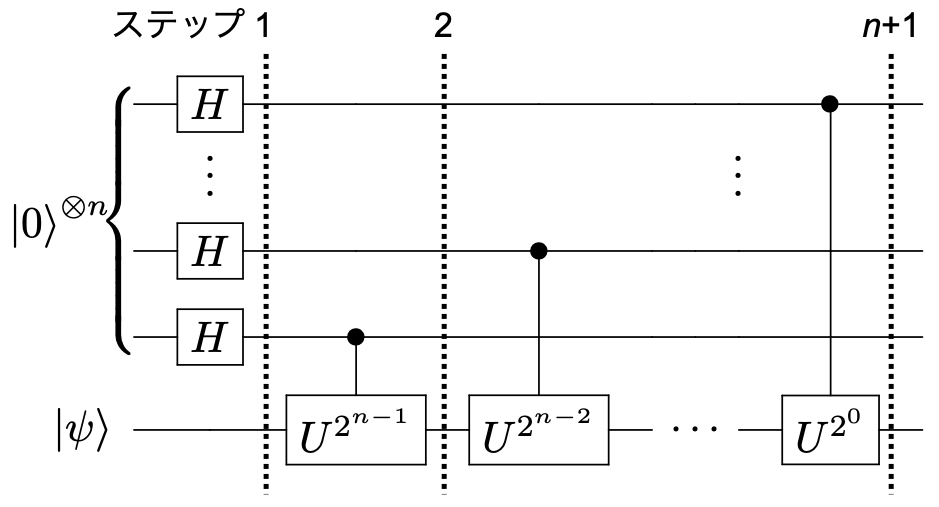
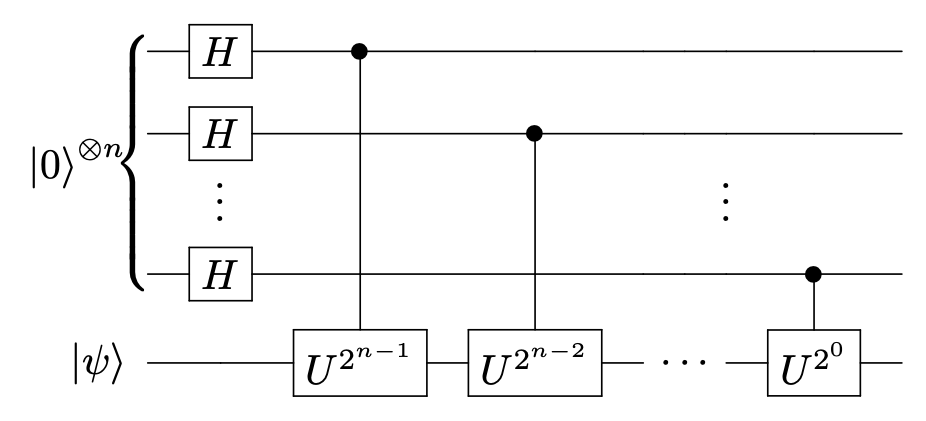
updated shor, spectrum_esimation

Changed region(s): [[0.0, 0.0, 0.9978, 0.9572]]

diff --git a/source/ja/shor.md b/source/ja/shor.md
@@ -149,8 +149,6 @@ import matplotlib.pyplot as plt
 import numpy as np
 
 from qiskit import QuantumRegister, ClassicalRegister, QuantumCircuit, transpile
-from qiskit.visualization import plot_histogram
-from qiskit_aer import AerSimulator
 from qiskit_ibm_runtime import QiskitRuntimeService
 from qiskit_ibm_runtime.accounts import AccountNotFoundError
 
@@ -319,32 +317,19 @@ pycharm:
 
     '
 ---
-simulator = AerSimulator()
-shots = 2048
-qc_tr = transpile(qc, backend=simulator)
-results = simulator.run(qc_tr, shots=shots).result()
-answer = results.get_counts()
+from qiskit.primitives import Sampler
 
-def show_distribution(answer):
-    n = len(answer)
-    x = [int(key, 2) for key in list(answer.keys())]
-    y = list(answer.values())
+# Instantiate a new Sampler object
+sampler = Sampler()
 
-    fig, ax = plt.subplots()
-    rect = ax.bar(x,y)
+# Now run the job and examine the results
+sampler_job = sampler.run(qc)
+result = sampler_job.result()
 
-    def autolabel(rects):
-        for rect in rects:
-            height = rect.get_height()
-            ax.annotate(f'{height/sum(y):.3f}',
-                        xy=(rect.get_x() + rect.get_width() / 2, height),
-                        xytext=(0, 0),
-                        textcoords="offset points", ha='center', va='bottom')
-    autolabel(rect)
-    plt.ylabel('Probabilities')
-    plt.show()
+from qiskit.visualization import plot_distribution
+plt.style.use('dark_background')
+plot_distribution(result.quasi_dists[0])
 
-show_distribution(answer)
 ```
 
 +++ {"pycharm": {"name": "#%% md\n"}}
@@ -384,7 +369,7 @@ try:
 except AccountNotFoundError:
     service = QiskitRuntimeService(channel='ibm_quantum', token='__paste_your_token_here__', instance=instance)
 
-backend = service.least_busy(min_num_qubits=4, filters=operational_backend())
+backend = service.least_busy(min_num_qubits=n_meas+1, simulator=False, operational=True)
 print(f"least busy backend: {backend.name}")
 ```
 
@@ -401,7 +386,12 @@ tags: [raises-exception, remove-output]
 ---
 # 最も空いているバックエンドで回路を実行します。キュー内のジョブの実行をモニターします。
 qc_tr = transpile(qc, backend=backend, optimization_level=3)
-job = backend.run(qc_tr, shots=shots)
+
+from qiskit_ibm_runtime import Sampler, Session
+# create a Runtime session for efficient execution (optional)
+session = Session(service=service, backend=backend)
+sampler = Sampler(session=session)
+job = sampler.run(qc)
 ```
 
 ```{code-cell} ipython3
@@ -413,9 +403,8 @@ pycharm:
 tags: [raises-exception, remove-output]
 ---
 # 計算結果
-results = job.result()
-answer = results.get_counts()
-show_distribution(answer)
+result = job.result()
+plot_distribution(result.quasi_dists[0])
 ```
 
 (shor_algo)=
@@ -957,11 +946,19 @@ pycharm:
 slideshow:
   slide_type: ''
 ---
-qc = transpile(qc, backend=simulator)
-results = simulator.run(qc, shots=2048).result()
-answer = results.get_counts()
+shots = 10000
 
-show_distribution(answer)
+# Instantiate a new Sampler object
+from qiskit.primitives import Sampler
+sampler = Sampler()
+
+# Now run the job and examine the results
+sampler_job = sampler.run(qc)
+answer = sampler_job.result().quasi_dists[0]
+
+from qiskit.visualization import plot_distribution
+plt.style.use('dark_background')
+plot_distribution(answer)
 ```
 
 +++ {"pycharm": {"name": "#%% md\n"}, "editable": true, "slideshow": {"slide_type": ""}}
@@ -984,11 +981,10 @@ slideshow:
 ---
 rows, measured_phases = [], []
 for output in answer:
-    decimal = int(output, 2)  # 10進数に変換
-    phase = decimal / (2 ** n_meas)
+    phase = output / (2 ** n_meas)
     measured_phases.append(phase)
     # これらの値をテーブルの行に追加：
-    rows.append(f"{decimal:3d}      {decimal:3d}/{2 ** n_meas} = {phase:.3f}")
+    rows.append(f"{output:3d}      {output:3d}/{2 ** n_meas} = {phase:.3f}")
 
 # 結果を表示
 print('Register Output    Phase')

diff --git a/source/ja/spectrum_estimation.md b/source/ja/spectrum_estimation.md
@@ -143,7 +143,10 @@ for i in range(eigvals.shape[0]):
 :align: center
 ```
 
-以下では、図中上のレジスタ（初期状態$\ket{0}$）を読み出し(readout)レジスタR、下のレジスタ（初期状態$\ket{\psi}$）を状態(state)レジスタSと呼びます。RとSのビット数をそれぞれ$n_R$, $n_S$とします。また、図では読み出しレジスタの最低位（1の位）に対応するビットが一番下に描かれており、Qiskitでの描画法と逆になっていることに注意してください。
+以下では、図中上のレジスタ（初期状態$\ket{0}$）を読み出し(readout)レジスタR、下のレジスタ（初期状態$\ket{\psi}$）を状態(state)レジスタSと呼びます。RとSのビット数をそれぞれ$n_R$, $n_S$とします。
+<!-- 
+また、図では読み出しレジスタの最低位（1の位）に対応するビットが一番下に描かれており、Qiskitでの描画法と逆になっていることに注意してください。
+-->
 
 さて、ハミルトニアン$H$を、エネルギーの次元を持つ定数$\hbar \omega$と無次元のエルミート演算子$\Theta$とに分解します。
 
